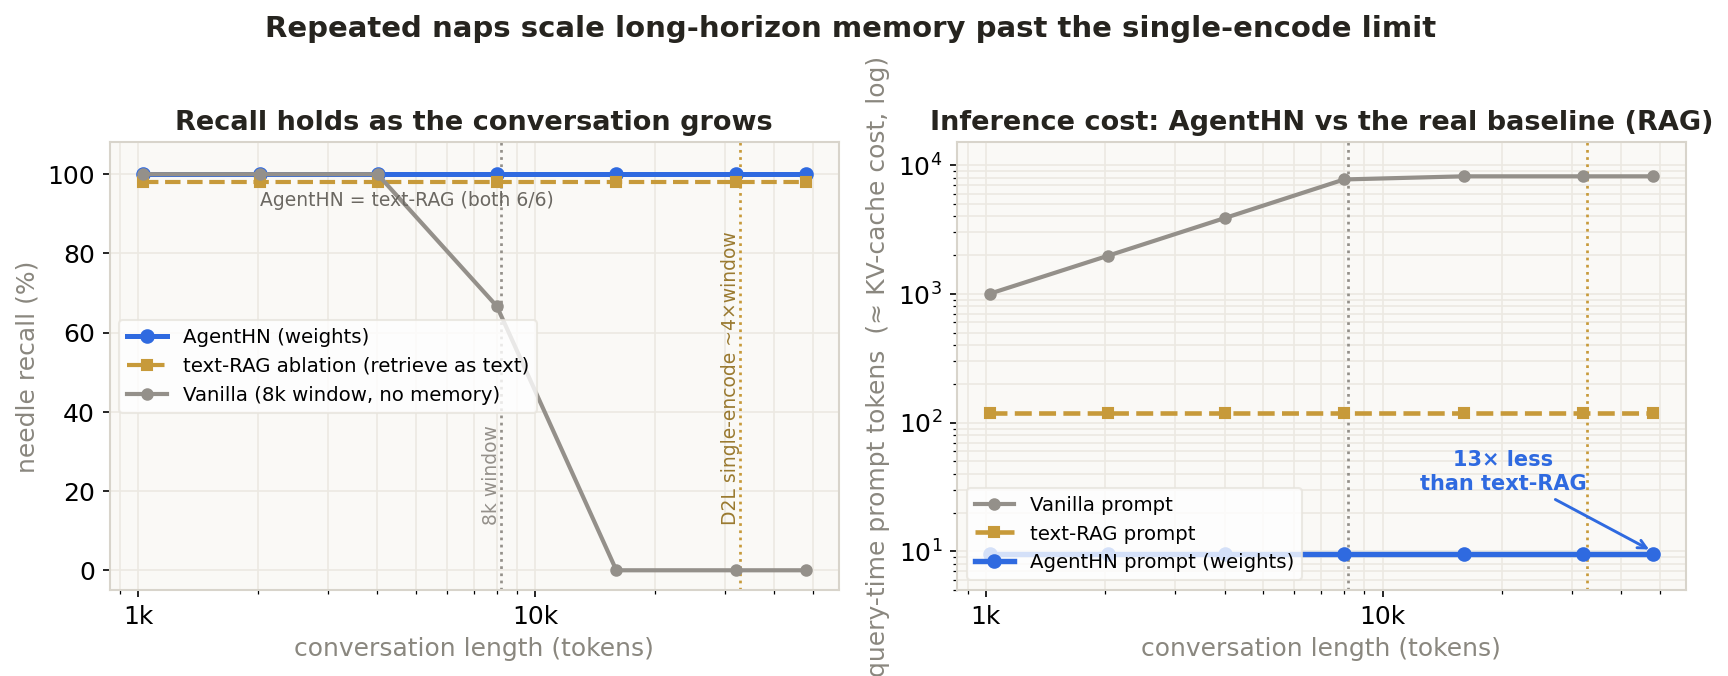
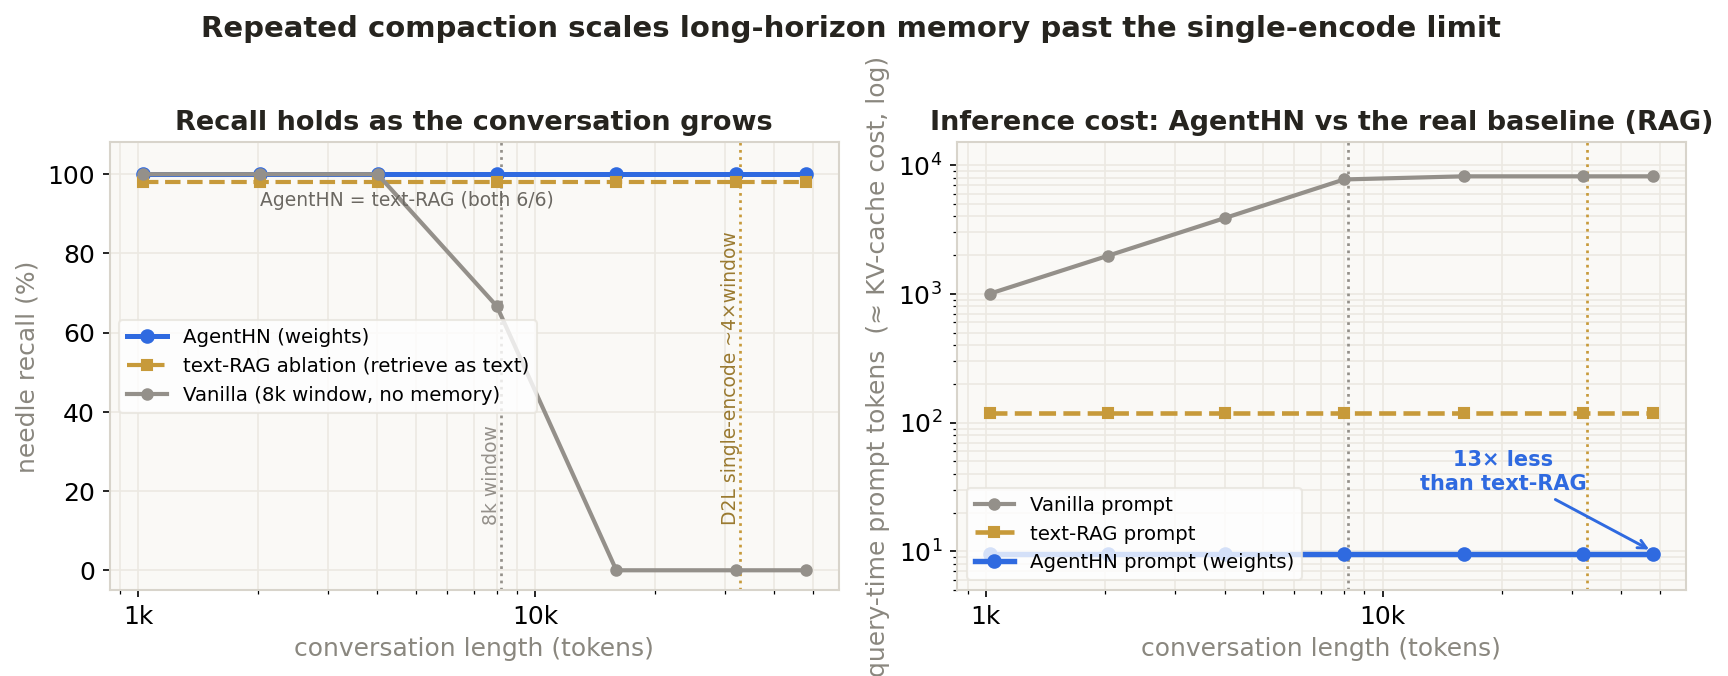
Memory tab cleanup: finish nap->compaction naming + tighten Experiments copy
- rename remaining "nap/naps/Nap interval" -> compact/compaction across the memory
  narrative, model strip, Scaling section, chart suptitle, and the live demo log
  string (nap_memory event); AgentHN naming kept consistent
- tighten + de-duplicate the Experiments sections (Scaling / Ablation / Statistical
  validation / method landscape / plain-words): shorter, more scannable, all
  numbers preserved; dropped the recall-trade bullet from Scaling (covered below)
- regenerate scaling.png with the updated title

Changed region(s): [[0.0938, 0.0311, 0.875, 0.0621]]

diff --git a/src/agenthn/webapp/static/index.html b/src/agenthn/webapp/static/index.html
@@ -121,19 +121,19 @@
       </p>
       <p style="font-size:15.5px;line-height:1.62;color:#26241f;margin:0;max-width:74ch">
         <strong style="color:#2f6ae0">AgentHN puts the agent's memory in its weights.</strong> Every K steps it
-        "naps" the oldest slice of the trajectory into a tiny LoRA adapter in <strong>one forward pass — no
-        training</strong> — and evicts it from context. To recall an old fact it loads the relevant adapter and
+        <strong>compacts</strong> the oldest slice of the trajectory into a tiny LoRA adapter in <strong>one forward
+        pass — no training</strong> — and evicts it from context. To recall an old fact it loads the relevant adapter and
         answers with <strong>only the current step in the prompt</strong>. Per-step context stays <strong>flat no
         matter how long the agent runs</strong>, and memory is built <strong>online, in real time</strong> as the
         agent works — the part a trained method (Cartridges) structurally can't do.
       </p>
     </div>
 
-    <p style="font-size:15px;line-height:1.6;color:#5c594f;margin:-2px 0 14px;max-width:74ch"><strong>How we test it below:</strong> a needle-in-a-haystack over a trajectory — a few facts (<strong>needles</strong>) are dropped early into a long conversation, then asked about at the very end. <strong style="color:#2f6ae0">AgentHN</strong> naps the oldest turns into LoRA weights and evicts them; baselines (<strong style="color:#9a7a30">markdown .md</strong>, RAG, vanilla, a trained Cartridges cache) are run side-by-side. Watch the context window and inference cost diverge.</p>
+    <p style="font-size:15px;line-height:1.6;color:#5c594f;margin:-2px 0 14px;max-width:74ch"><strong>How we test it below:</strong> a needle-in-a-haystack over a trajectory — a few facts (<strong>needles</strong>) are dropped early into a long conversation, then asked about at the very end. <strong style="color:#2f6ae0">AgentHN</strong> compacts the oldest turns into LoRA weights and evicts them; baselines (<strong style="color:#9a7a30">markdown .md</strong>, RAG, vanilla, a trained Cartridges cache) are run side-by-side. Watch the context window and inference cost diverge.</p>
     <div style="display:flex;flex-wrap:wrap;gap:8px;margin:0 0 18px">
       <span style="font-family:'IBM Plex Mono',monospace;font-size:11.5px;background:#f2efe9;border:1px solid #e2ded6;border-radius:7px;padding:5px 11px;color:#5c594f"><strong style="color:#26241f">Base model:</strong> 1 × gemma-2-2b-it (2B params, 8k window)</span>
       <span style="font-family:'IBM Plex Mono',monospace;font-size:11.5px;background:#ebf2fe;border:1px solid #cdddfb;border-radius:7px;padding:5px 11px;color:#1e50c0"><strong>Hypernetwork:</strong> 1 × Doc-to-LoRA — context → rank-8 LoRA in one forward pass</span>
-      <span style="font-family:'IBM Plex Mono',monospace;font-size:11.5px;background:#eef6f0;border:1px solid #b5ddc6;border-radius:7px;padding:5px 11px;color:#2f7d57"><strong>Nap interval:</strong> K = 4 turns → 1 adapter</span>
+      <span style="font-family:'IBM Plex Mono',monospace;font-size:11.5px;background:#eef6f0;border:1px solid #b5ddc6;border-radius:7px;padding:5px 11px;color:#2f7d57"><strong>Compaction interval:</strong> K = 4 turns → 1 adapter</span>
     </div>
     <div class="panel">
       <!-- controls -->
@@ -460,31 +460,29 @@
   <section id="experiments" style="max-width:1080px;margin:0 auto;padding:64px 24px 0">
     <h2 style="font-size:32px;font-weight:600;letter-spacing:-0.02em;margin:0 0 12px">Experiments — long-horizon memory</h2>
     <p style="font-size:17px;line-height:1.6;color:#5c594f;margin:0 0 4px;max-width:66ch">How AgentHN's weight-based memory stacks up against raw context, markdown notes, retrieval (RAG), and a trained Cartridges soft-prompt — on recall, context cost, scaling, and price. Every number has a script in the repo.</p>
-    <!-- ===== SCALING RESULT: repeated naps beyond the single-encode limit ===== -->
+    <!-- ===== SCALING RESULT: repeated compaction beyond the single-encode limit ===== -->
     <div class="panel" style="margin-top:22px">
       <div class="controlbar" style="justify-content:flex-start;gap:12px">
         <span class="eyebrow">Scaling result</span>
-        <span style="font-size:14px;font-weight:600;color:#26241f">Repeated naps push memory past the single-encode limit</span>
+        <span style="font-size:14px;font-weight:600;color:#26241f">Memory holds past the single-encode limit, at flat cost</span>
       </div>
       <div style="padding:18px 22px">
         <p style="font-size:15px;line-height:1.65;color:#3a3832;margin:0 0 16px;max-width:74ch">
-          Doc-to-LoRA encodes a <em>bounded</em> document in one pass — chunk it into ≤8 pieces,
-          rank-concatenate, and you reach about <strong>4× the model's context window</strong> before the
-          chunk count goes out-of-distribution and recall degrades. We don't encode once. We
-          <strong style="color:#2f6ae0">nap repeatedly</strong> over the stream: every K turns the oldest
-          segment becomes its own in-distribution LoRA adapter, appended to a growing store and evicted
-          from context. At recall time we <strong>retrieve</strong> the relevant nap — so there is no
-          rank-concatenation ceiling, and the horizon is unbounded.
+          Doc-to-LoRA encodes a <em>bounded</em> document in one pass (chunk into ≤8 pieces, rank-concatenate) —
+          good for about <strong>4× the context window</strong> before the chunk count goes out-of-distribution and
+          recall degrades. We instead <strong style="color:#2f6ae0">compact repeatedly</strong>: every K turns the
+          oldest segment becomes its own adapter in a growing store, then is evicted from context. At query time we
+          <strong>retrieve</strong> the relevant adapter — so there's no rank-concatenation ceiling, and the horizon
+          is unbounded.
         </p>
         <img src="/scaling.png" alt="Recall and inference cost vs conversation length"
              style="width:100%;max-width:1000px;display:block;margin:0 auto;border:1px solid #eceae3;border-radius:10px">
         <div style="display:flex;flex-wrap:wrap;gap:10px 26px;margin-top:16px;font-size:14px;color:#3a3832">
-          <span>📈 <strong>6 / 6 recall held to 48k tokens</strong> (410 naps) at a flat <strong>~10-token</strong> prompt</span>
-          <span>🟰 <strong>same retriever as text-RAG</strong>, but <strong>~13× less</strong> query context (RAG re-enters the chunk; AgentHN keeps it in weights) — recall trade-off quantified in the statistical study below</span>
-          <span>🧱 vanilla 8k context <strong>collapses to 0 / 6</strong> once the conversation overflows the window</span>
+          <span>📈 <strong>6 / 6 recall, flat to 48k tokens</strong> (410 compactions) from a <strong>~10-token</strong> prompt — recall doesn't decay as the conversation grows.</span>
+          <span>🧱 a plain 8k-window model <strong>collapses to 0 / 6</strong> once the conversation overflows its window.</span>
         </div>
         <div style="font-family:'IBM Plex Mono',monospace;font-size:11px;color:#a6a299;margin-top:10px">
-          measured on gemma-2-2b-it · 6 needles planted early, conversation grown to 48k tokens · scripts/scaling_sweep.py
+          gemma-2-2b-it · 6 facts planted early, conversation grown to 48k tokens · scripts/scaling_sweep.py
         </div>
       </div>
     </div>
@@ -497,12 +495,11 @@
       </div>
       <div style="padding:18px 22px">
         <p style="font-size:15px;line-height:1.65;color:#3a3832;margin:0 0 16px;max-width:78ch">
-          Same task (6 facts planted early, conversation grown to <strong>12k tokens</strong> so it overflows the 8k
-          window). We remove <strong>one component at a time</strong> and watch recall + the context the model must
-          attend to at query. The decisive row is <strong style="color:#2f6ae0">text-RAG</strong> vs
-          <strong style="color:#2f6ae0">AgentHN</strong>: identical retriever, identical recall — the only
-          difference is whether the retrieved memory's tokens enter the prompt. That gap is exactly what the
-          hypernetwork (LoRA compaction) buys.
+          Same task, grown to <strong>12k tokens</strong> (overflows the 8k window). We remove
+          <strong>one component at a time</strong> and watch recall and query context. The decisive pair is the last
+          two rows — <strong style="color:#2f6ae0">text-RAG vs AgentHN</strong>: identical retriever, identical recall,
+          differing only in whether the retrieved memory enters the prompt as <strong>tokens or a weight patch</strong>.
+          That gap is exactly what the hypernetwork buys.
         </p>
         <table style="width:100%;border-collapse:collapse;font-size:13.5px">
           <thead>
@@ -566,18 +563,16 @@
       </div>
       <div style="padding:18px 22px">
         <p style="font-size:15px;line-height:1.65;color:#3a3832;margin:0 0 16px;max-width:78ch">
-          Beyond the curated 6-fact demo: <strong>20 randomly-generated facts × 5 seeds × 5 haystack
-          sizes</strong> (2k → 48k tokens) = <strong>100 trials per cell</strong>, reported as mean ± std with
-          Wilson 95% CIs. We <strong>trained a real Cartridges baseline</strong> (soft-prompt, our reimplementation)
-          and measured it on the same task. This is the honest, defensible picture.
+          Beyond the curated demo: <strong>20 random facts × 5 seeds × 5 haystack sizes</strong> (2k → 48k tokens) =
+          <strong>100 trials per cell</strong>, as mean ± std with Wilson 95% CIs. We also <strong>trained a real
+          Cartridges baseline</strong> and measured it on the same task. The honest, defensible picture:
         </p>
         <img src="/large_scale.png" alt="Recall and context vs haystack size, mean ± std over seeds"
              style="width:100%;max-width:1000px;display:block;margin:0 auto;border:1px solid #eceae3;border-radius:10px">
         <div style="display:flex;flex-wrap:wrap;gap:10px 26px;margin-top:16px;font-size:14px;color:#3a3832">
-          <span>📊 <strong>AgentHN recall is flat across the horizon</strong> — 87 ± 6% at 2k <em>and</em> at 48k; it does not decay as the conversation grows. <strong>vanilla collapses</strong> 95% → 36% → <strong>0%</strong>.</span>
-          <span>🟣 <strong>measured Cartridges: 92% (CI 85–96) @ 96 ctx</strong> — a trained KV/soft-prompt cache lands between AgentHN and RAG, but needs <strong>offline training per corpus</strong> (~43s each) and can't update online.</span>
-          <span>⚖ <strong>the recall ↔ context trade:</strong> RAG 100% @116t · Cartridges 92% @96t · <strong style="color:#2f6ae0">AgentHN 87% @ 7t</strong> — AgentHN gives up ~5–13% recall for <strong>~14× less context</strong> and the only <em>online, no-training</em> memory.</span>
-          <span>🔬 same retriever in AgentHN &amp; RAG → the 13% gap is isolated to the <strong>LoRA encoding</strong>, not retrieval (RAG retrieves identically and scores 100%).</span>
+          <span>📊 <strong>AgentHN recall is flat across the horizon</strong> — 87 ± 6% at both 2k and 48k; a plain model <strong>collapses</strong> 95% → 36% → <strong>0%</strong>.</span>
+          <span>⚖ <strong>recall ↔ context trade:</strong> RAG 100% @116t · Cartridges 92% @96t · <strong style="color:#2f6ae0">AgentHN 87% @ 7t</strong>.</span>
+          <span>🔬 AgentHN and RAG share a retriever → the 13% gap is the <strong>LoRA encoding</strong>, not retrieval.</span>
         </div>
         <div style="margin-top:16px;border:1px solid #d9cdf0;border-radius:10px;background:#f7f4fc;padding:14px 16px">
           <div class="eyebrow" style="color:#6b4fa0;margin-bottom:8px">AgentHN vs Cartridges — head-to-head multipliers</div>
@@ -605,9 +600,8 @@
         <p style="font-size:15px;line-height:1.65;color:#3a3832;margin:0 0 16px;max-width:80ch">
           The honest framing isn't "we beat everyone" — it's <em>which axis you optimize</em>.
           <a href="https://arxiv.org/abs/2506.06266" target="_blank" rel="noopener" style="color:#7b61b8;font-weight:600">Cartridges</a>
-          (HazyResearch) trains a small KV cache offline per corpus and matches in-context quality; RAG pastes the
-          retrieved text; AgentHN predicts a LoRA in one forward pass. They trade off creation cost, whether they
-          can run <strong>online</strong>, recall, and per-query cost differently.
+          (HazyResearch) trains a KV cache offline and matches in-context quality; RAG pastes retrieved text;
+          AgentHN predicts a LoRA in one forward pass. They differ on creation cost, online use, recall, and price:
         </p>
         <table style="width:100%;border-collapse:collapse;font-size:13px">
           <thead>
@@ -659,11 +653,10 @@
           ² Cartridges recall measured on the same task with our own trained soft-prompt reimplementation (96 virtual tokens, 60 epochs/corpus); the paper's full KV-cache + distillation likely does better. 38.6× memory / 26.4× throughput vs ICL are cited from the paper (arXiv:2506.06266) · all numbers on gemma-2-2b-it · scripts/cartridge_eval.py
         </div>
         <p style="font-size:14.5px;line-height:1.6;color:#3a3832;margin:18px 0 0;max-width:80ch">
-          <strong>The takeaway:</strong> Cartridges wins on quality but needs expensive <em>offline</em> training and
-          can't update mid-conversation. AgentHN is the <strong style="color:#2f6ae0">online / real-time</strong>
-          point — it builds memory in a single forward pass as the agent talks, at the lowest per-query cost —
-          and pays for that amortization with ~13% recall. Different tools for streaming agent memory (AgentHN) vs
-          a fixed corpus queried millions of times (Cartridges).
+          <strong>The takeaway:</strong> Cartridges wins on quality but trains <em>offline</em> and can't update
+          mid-conversation. AgentHN is the <strong style="color:#2f6ae0">online / real-time</strong> point — memory
+          built in one forward pass as the agent talks, at the lowest per-query cost, paying ~13% recall for it.
+          Different tools: streaming agent memory (AgentHN) vs a fixed corpus queried millions of times (Cartridges).
         </p>
       </div>
     </div>
@@ -713,11 +706,11 @@
         relevant (a quick keyword search), load just that chunk's patch into the model, and answer — with only the
         question in the prompt. So the prompt stays tiny no matter how long the conversation gets.</p>
         <p style="margin:0 0 14px"><strong>What we found, honestly.</strong> It recalls about <strong>87%</strong> of
-        facts and never gets worse as the chat grows to 48,000 tokens, while a plain model drops to <strong>0%</strong>
-        once it overflows. But classic retrieval (paste the text) gets <strong>100%</strong> — so storing memory in
-        weights instead of text <em>costs ~13% accuracy</em>, and what it buys back is the <strong>cheapest, smallest
-        prompt</strong> and the ability to build memory <strong>live, with no training</strong>. That last part is the
-        real niche: unlike Cartridges (which trains a memory offline), we adapt in real time as the agent talks.</p>
+        facts and never degrades as the chat grows to 48,000 tokens, while a plain model drops to <strong>0%</strong>
+        once it overflows. Classic retrieval (paste the text) gets <strong>100%</strong> — so storing memory in weights
+        <em>costs ~13% accuracy</em>, and buys back the <strong>cheapest, smallest prompt</strong> and memory built
+        <strong>live, with no training</strong>. That's the niche: unlike Cartridges (trained offline), AgentHN adapts
+        in real time as the agent works.</p>
         <p style="margin:0;color:#6b6862;font-size:14px"><em>Everything above is measured on a 2-billion-parameter model
         (gemma-2-2b-it) with one Doc-to-LoRA hypernetwork. Every number has a script in the repo.</em></p>
       </div>

diff --git a/scripts/make_scaling_chart.py b/scripts/make_scaling_chart.py
@@ -96,7 +96,7 @@ def main() -> None:
                      arrowprops=dict(arrowstyle="->", color=BLUE, lw=1.4))
     axR.legend(loc="lower left", frameon=True, fontsize=9.5, facecolor="white", edgecolor="#e7e4dd")
 
-    fig.suptitle("Repeated naps scale long-horizon memory past the single-encode limit",
+    fig.suptitle("Repeated compaction scales long-horizon memory past the single-encode limit",
                  fontsize=14, fontweight="bold", color=INK, y=1.02)
     fig.tight_layout()
     OUT.parent.mkdir(parents=True, exist_ok=True)

diff --git a/src/agenthn/memory/nap_memory.py b/src/agenthn/memory/nap_memory.py
@@ -97,7 +97,7 @@ class NapLoRAMemory:
         self.segments.append(
             Segment(id=sid, text=doc, adapter=adapter, n_turns=len(chunk), tokens=tokens)
         )
-        msg = f"napped {len(chunk)} turns -> segment #{sid} ({tokens} tok -> weights)"
+        msg = f"compacted {len(chunk)} turns -> adapter #{sid} ({tokens} tok -> weights)"
         self.events.append({"step": self._step, "type": "nap", "segment": sid, "tokens": tokens})
         return msg
 
